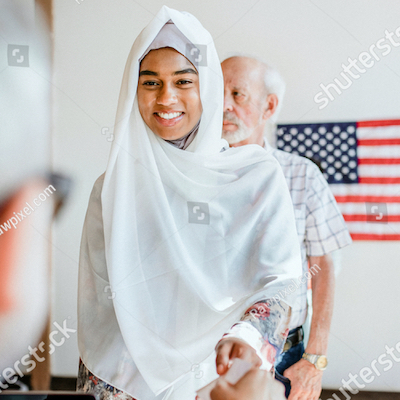
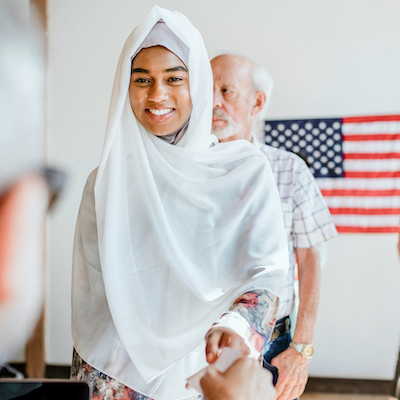
update stock images

diff --git a/_includes/home.html b/_includes/home.html
@@ -69,8 +69,9 @@
       Impactful work at Scale
     </h1>
     <p>
-      The U.S. Digital Corps is a new, two&#8209;year fellowship for early&#8209;career and junior technologists to launch impactful
-      careers in public service and help accelerate technology modernization in service to the American public.
+      The U.S. Digital Corps is a new, two&#8209;year fellowship for early&#8209;career and junior 
+      technologists to launch impactful careers in public service and help accelerate technology 
+      modernization in service to the American public.
     </p>
   </div>
 
@@ -78,15 +79,15 @@
     <div class="grid-row benefits">
       <div class="benefit">
         {% asset
-          "supervisor-explaining.png"
-          alt="young man in business suit explaining in conference room" %}
-          <h2 class="twoline"> High-impact <br class="display-none tablet:display-inline" /> work </h2>
+        "shutterstock_669170740.jpg"
+        alt="young man in business suit explaining in conference room" %}
+        <h2 class="twoline"> High-impact <br class="display-none tablet:display-inline" /> work </h2>
         <p>Work with federal employees to improve how government serves all Americans in a digital age.</p>
       </div>
       <div class="benefit">
         {% asset
-          "pexels-christina-morillo-1181398.jpg"
-          alt="young man in business suit explaining in conference room" %}
+        "pexels-christina-morillo-1181398.jpg"
+        alt="young man in business suit explaining in conference room" %}
         <h2 class="twoline">Learning and <br class="display-none tablet:display-inline" /> development</h2>
         <p>Grow as a technologist while honing your bureaucracy hacking skills through dedicated programming.</p>
       </div>

diff --git a/_assets/css/pages/_about.scss b/_assets/css/pages/_about.scss
@@ -3,21 +3,19 @@
 .about {
     .usa-hero {
         // background image
-        background-image: url(asset_path("stock/washington-monument.png"));
+        background-image: url(asset_path("stock/shutterstock_512812102.jpg"));
         background-position: right 100%;
 
         // callout container
         .usa-hero__callout {
-            @include grid-col(5);
-            @include grid-offset(7);
+            @include grid-col(6);
+            @include grid-offset(6);
             @include u-padding-x(0);
             @include u-padding-top(8);
             @include u-text("white");
 
             // < desktop-lg
             @include at-media-max("desktop-lg") {
-                @include grid-col(6);
-                @include grid-offset(6);
                 min-height: 500px;
             }
 
@@ -25,7 +23,6 @@
             @include at-media-max("desktop") {
                 @include grid-col(7);
                 @include grid-offset(5);
-                min-height: 500px;
             }
 
             // < tablet-lg
@@ -39,7 +36,6 @@
                 @include grid-col(12);
                 @include grid-offset(none);
                 @include u-padding-x(2);
-                min-height: 500px;
             }
 
             // typography
@@ -66,7 +62,7 @@
 }
 
 .about-diversity-image {
-    background-image: url(asset_path("stock/presenting-microphone.png"));
+    background-image: url(asset_path("stock/shutterstock_1614290140.jpg"));
     background-position: 50% top;
 
     @include at-media-max("tablet") {

diff --git a/_assets/css/pages/_opportunity.scss b/_assets/css/pages/_opportunity.scss
@@ -43,7 +43,7 @@
 }
 
 .opportunity-deliver-image {
-    background-image: url(asset_path("stock/satellite-hurricane.png"));
+    background-image: url(asset_path("stock/shutterstock_1189106440.jpg"));
     background-size: cover;
     background-position: 50% top;
 }
@@ -59,7 +59,7 @@
 }
 
 .opportunity-support-image {
-    background-image: url(asset_path("stock/audience-clapping.png"));
+    background-image: url(asset_path("stock/shutterstock_737530333.jpg"));
     background-size: cover;
     background-position: 35% top;
 }

diff --git a/pages/about/index.html b/pages/about/index.html
@@ -95,7 +95,7 @@ permalink: /about/
       </div>
       <div class="benefit">
         {% asset
-        "inclusive.png"
+        "shutterstock_759379996.jpg"
         alt="attractive young man in wheelchair with laptop" %}
         <h2>Inclusion</h2>
         <p>We put people first and celebrate what brings us together and makes each of us unique to meet
